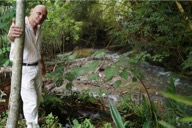
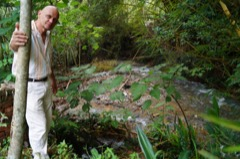
Updated photos

diff --git a/index.html b/index.html
@@ -104,7 +104,8 @@
             <div class="gallery">
                 <a data-fancybox="school" data-caption="Teachers and students at the Mercedes Abrego School, one of Asobolo’s school partners working in environmental education."href="img/school/DSC00157.JPG"><img class='gallery-picture' src="img/school/DSC00157_tn.jpg" height='80'></a>
                 <a data-fancybox="school" data-caption="Students of Mercedes Abrego School that participate in environmental education programs."href="img/school/DSC00143.JPG"><img class='gallery-picture' src="img/school/DSC00143_tn.jpg" height='80'></a>
-                <a data-fancybox="school" data-caption="The school Mercedes Abrego in the Yellow Flowers community"href="img/school/DSC00136.JPG"><img class='gallery-picture' src="img/school/DSC00136_tn.jpg" height='80'></a>        
+                <a data-fancybox="school" data-caption="The school Mercedes Abrego in the Yellow Flowers community."href="img/school/DSC00136.JPG"><img class='gallery-picture' src="img/school/DSC00136_tn.jpg" height='80'></a>   
+                <a data-fancybox="school" data-caption="Asobolo’ Director Amalia gives a talk on Earth’s Day."href="img/school/DSC00134.JPG"><img class='gallery-picture' src="img/school/DSC00134_tn.jpg" height='80'></a>     
             </div> 
 
         </div> 
@@ -115,11 +116,12 @@
             </div>
             <div data-i18n="[html]person_quote_manuel"></div>                                                                                            
             <div class='person_name'>Manuel Esteban Guefias Salazar</div> 
-            <div class="person_body hide" data-i18n="person_story_manuel"></div>     
+            <div class="person_body hide" data-i18n="[html]person_story_manuel"></div>     
             <div class="gallery">
-                <a data-fancybox="manuel" href=""><img class='gallery-picture' src="" height='80'></a>
-                <a data-fancybox="manuel" href=""><img class='gallery-picture' src="" height='80'></a>
-                <a data-fancybox="manuel" href=""><img class='gallery-picture' src="" height='80'></a>                
+                <a data-fancybox="esteban" data-caption="Esteban showing some of his ornamental plants." href="img/esteban/DSC02800.JPG"><img class='gallery-picture' src="img/esteban/DSC02800_tn.jpg" height='80'></a>
+                <a data-fancybox="esteban" data-caption="View from Estaban’s farm." href="img/esteban/DSC02784.JPG"><img class='gallery-picture' src="img/esteban/DSC02784_tn.jpg" height='80'></a>
+                <a data-fancybox="esteban" data-caption="Orchids in Esteban’s farm." href="img/esteban/DSC02791.JPG"><img class='gallery-picture' src="img/esteban/DSC02791_tn.jpg" height='80'></a>   
+                            
             </div>      
         </div>
         <!-- community -->
@@ -131,9 +133,11 @@
             <div class='person_name'>― Kwet Wala Indigenous Community</div> 
             <div class="person_body hide" data-i18n="[html]person_story_community"></div>  
             <div class="gallery">
-                <a data-fancybox="community" href=""><img class='gallery-picture' src="" height='80'></a>
-                <a data-fancybox="community" href=""><img class='gallery-picture' src="" height='80'></a>
-                <a data-fancybox="community" href=""><img class='gallery-picture' src="" height='80'></a>                
+                <a data-fancybox="community" data-caption="Sacred stone and symbol of the Kwet Wala indigenous community." href="img/community/DSC00078.JPG"><img class='gallery-picture' src="img/community/DSC00078_tn.jpg" height='80'></a> 
+                <a data-fancybox="community" data-caption="Member of the Kwet Wala community with the forest under their protection, as a background." href="img/community/DSC00089.JPG"><img class='gallery-picture' src="img/community/DSC00089_tn.jpg" height='80'></a> 
+                <a data-fancybox="community" data-caption="Water that emerges in the lands of this community begins to be transported for communities downstream." href="img/community/DSC00115.JPG"><img class='gallery-picture' src="img/community/DSC00115_tn.jpg" height='80'></a> 
+                <a data-fancybox="community" data-caption="Members of Kwet Wala with Amalia, Asobolo’s Director and Pedro Moreno, Technical Director of Agua por la Vida, on top of the community’s sacred stone." href="img/community/DSC00093.JPG"><img class='gallery-picture' src="img/community/DSC00093_tn.jpg" height='80'></a> 
+                <a data-fancybox="community" data-caption="One member of the Kwet Wala community holding an indigenous “beaton” and sacred symbol, used during gatherings." href="img/community/DSC00123.JPG"><img class='gallery-picture' src="img/community/DSC00123_tn.jpg" height='80'></a>              
             </div>                                                                            
         </div>
     </section>
@@ -149,7 +153,7 @@
                 <img id="profile_pic_diego" src='people/diego.png' class='img-circle selected inline-image-right' width='100' height='100'>                    
             </div>
             <div data-i18n="[html]person_quote_diego"></div>                                                                                            
-            <div class='person_name'>Diego Marquez</div>
+            <div class='person_name'>Diego Márquez</div>
             <div class="person_body hide" data-i18n="[html]person_story_diego"></div>  
             <div class="gallery">
                 <a data-fancybox="diego" href=""><img class='gallery-picture' src="" height='80'></a>
